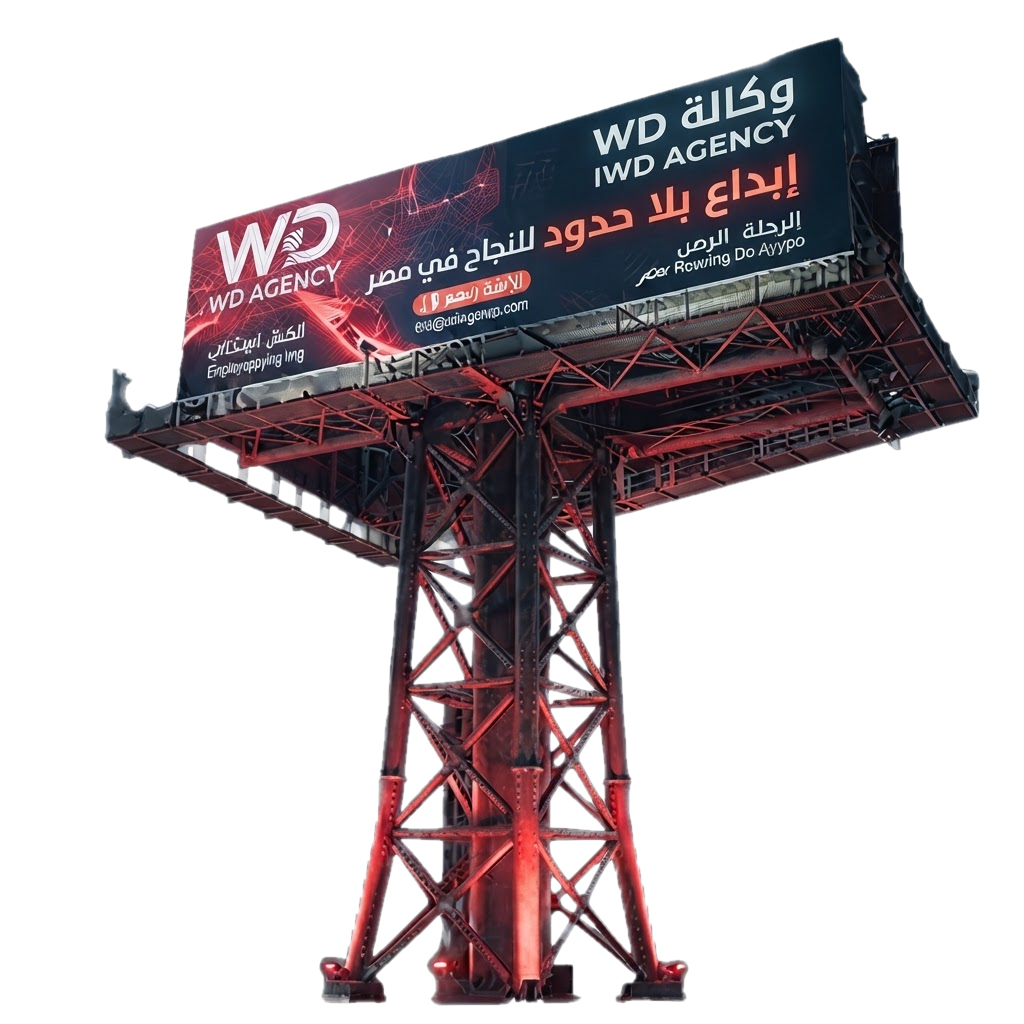
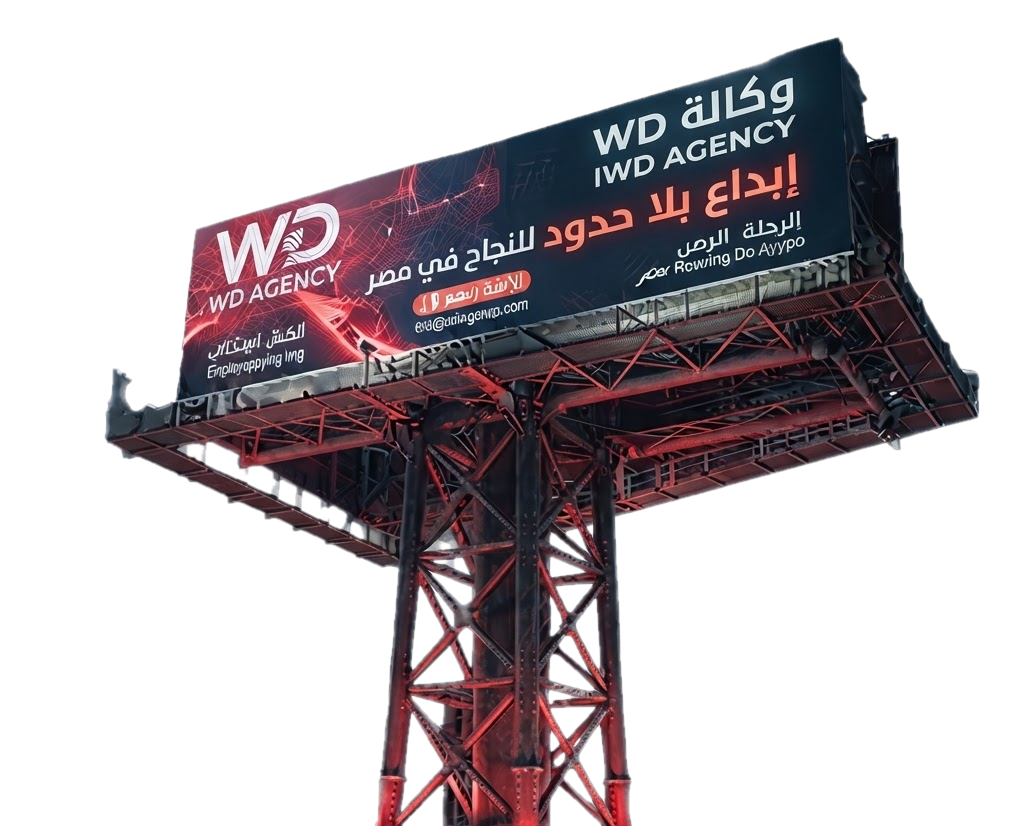
Make hero responsive: compact type below 1024px, 2-column from 750px with correct LTR/RTL sides, stacked below 750px

diff --git a/src/components/Hero.css b/src/components/Hero.css
@@ -172,29 +172,90 @@ html.theme-dark .wd-hero-section,
   max-width: 560px;
   height: auto;
   object-fit: contain;
-  /* The artwork carries ~1.8% transparent padding at its base; nudge it down so
-     the pylon itself lands on the hero's bottom edge (the section clips the
-     transparent remainder). translateY % resolves against the image's own box. */
-  transform: translateY(1.8%);
+  /* The artwork's opaque content reaches the PNG's own bottom edge, so a plain
+     bottom-aligned layout already puts the pylon on the hero's bottom edge. */
 }
 
 /* Responsive Breakpoints */
+
+/* Small screens & tablets: compact the typography/spacing.
+   Desktop (>=1025px) styling is untouched. Scoped to the hero so shared
+   classes (.section-badge-pill, buttons) keep their look elsewhere. */
 @media (max-width: 1024px) {
-  .hero-heading {
-    font-size: 2.35rem;
-  }
   .hero-grid {
-    gap: 2rem;
+    gap: 1.75rem;
+  }
+
+  .section-badge-pill.hero-badge {
+    font-size: 0.72rem;
+    padding: 0.3rem 0.8rem;
+    gap: 0.4rem;
+    letter-spacing: 0.01em;
+    margin-bottom: 1.1rem;
+  }
+
+  .hero-heading {
+    font-size: 1.95rem;
+    line-height: 1.2;
+    margin-bottom: 1.2rem;
+  }
+
+  .hero-lead {
+    font-size: 0.95rem;
+    line-height: 1.6;
+    margin-bottom: 1.75rem;
+  }
+
+  .hero-actions {
+    gap: 0.85rem;
+  }
+
+  .btn-hero-primary,
+  .btn-hero-secondary {
+    padding: 0.7rem 1.2rem;
+    font-size: 0.875rem;
+    gap: 0.55rem;
   }
 }
 
+/* Reduced hero top padding once we leave the desktop layout */
 @media (max-width: 860px) {
   .wd-hero-section {
     padding: 3rem 0 0;
   }
+}
+
+/* Small tablets & wider screens: compact TWO-column hero (>=750px is where the
+   text column is wide enough for a 3-line headline and the image stays large).
+   Direction on .hero-grid-* keeps EN = image right / text left,
+   AR = image left / text right. */
+@media (min-width: 750px) and (max-width: 860px) {
+  .hero-grid {
+    grid-template-columns: 1.1fr 1fr;
+    gap: 1.5rem;
+  }
+  .hero-heading {
+    font-size: 1.65rem;
+    margin-bottom: 1.1rem;
+  }
+  .hero-lead {
+    font-size: 0.9rem;
+    line-height: 1.55;
+    margin-bottom: 1.5rem;
+  }
+  /* Text column is the taller one here — keep buttons off the section edge. */
+  .hero-text-col {
+    padding-bottom: 2.5rem;
+  }
+}
+
+/* Narrower screens: clean stacked layout (text above image).
+   Side-by-side here would squeeze the text column below ~340px and shrink the
+   image, so the stacked layout keeps both readable and the image prominent. */
+@media (max-width: 749.98px) {
   .hero-grid {
     grid-template-columns: 1fr;
-    gap: 2.25rem;
+    gap: 1.75rem;
   }
   /* Stacked layout: the image comes last, so the text needs no bottom spacer. */
   .hero-text-col {
@@ -224,26 +285,33 @@ html.theme-dark .wd-hero-section,
     padding: 2.25rem 0 0;
   }
   .hero-heading {
-    font-size: 1.85rem;
-    margin-bottom: 1.15rem;
+    font-size: 1.75rem;
+    margin-bottom: 1rem;
   }
   .hero-lead {
-    font-size: 0.925rem;
-    line-height: 1.65;
-    margin-bottom: 1.75rem;
+    font-size: 0.875rem;
+    line-height: 1.6;
+    margin-bottom: 1.5rem;
   }
   .hero-actions {
-    gap: 0.75rem;
+    gap: 0.7rem;
   }
   .btn-hero-primary,
   .btn-hero-secondary {
-    padding: 0.8rem 1.25rem;
-    font-size: 0.9rem;
+    padding: 0.65rem 1.1rem;
+    font-size: 0.85rem;
   }
 }
 
 @media (max-width: 380px) {
   .hero-heading {
-    font-size: 1.6rem;
+    font-size: 1.5rem;
+  }
+  .section-badge-pill.hero-badge {
+    font-size: 0.68rem;
+    padding: 0.28rem 0.7rem;
+  }
+  .hero-actions {
+    gap: 0.6rem;
   }
 }
